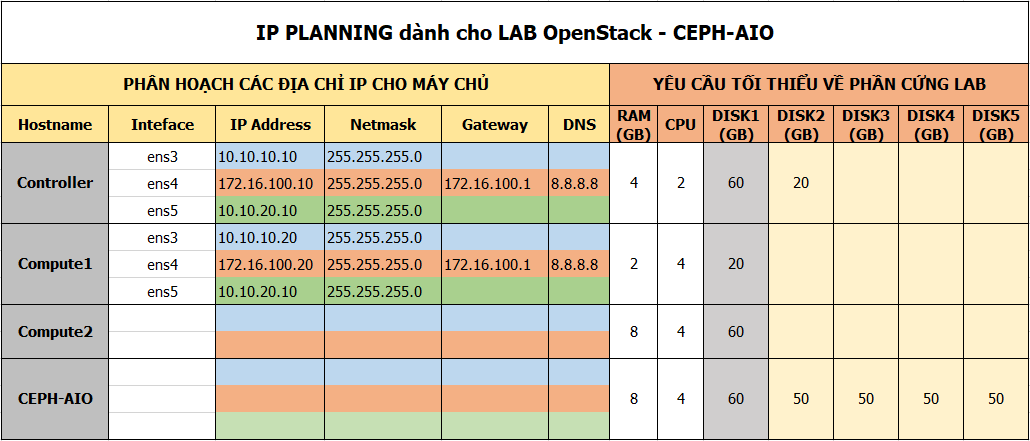
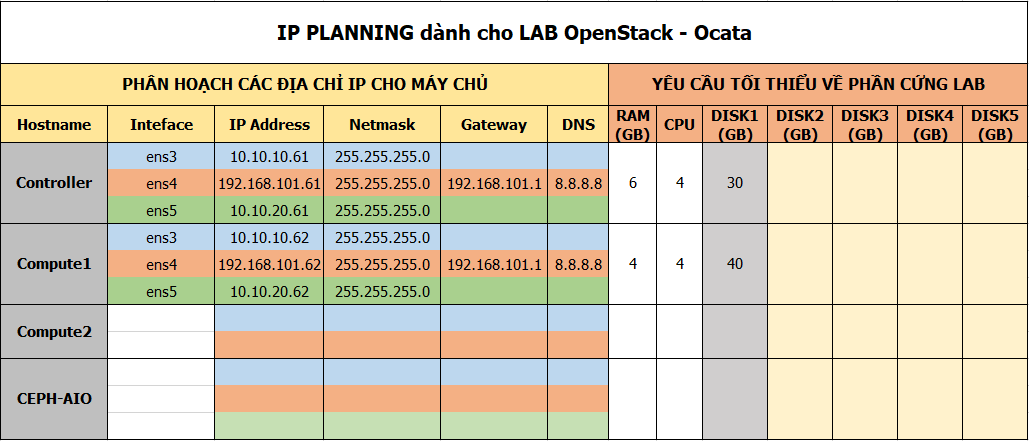
update script setup OPS Ocata
OPS Ocata với Linuxbridge

diff --git a/TamNT/Openstack/Ocata_Scripts/readme.md b/TamNT/Openstack/Ocata_Scripts/readme.md
@@ -1,7 +1,3 @@
-
-TTP<sub>hihihehe </sub><sup> helo </sup>
-
-
 # Tổng hợp scripts cài đặt Openstack Ocata
 
 scripts cài đặt Ocata theo docs [trang chủ.](https://docs.openstack.org/ocata/install-guide-ubuntu)
@@ -18,7 +14,7 @@ scripts cài đặt Ocata theo docs [trang chủ.](https://docs.openstack.org/oc
 
 - Download các file scripts.
 
-- Sử dụng người dùng sudoer hoặc người dùng root để thực hiện các lệnh sau.
+- Sử dụng người dùng sudoer hoặc người dùng `root` để thực hiện các lệnh sau.
 
 - Thực hiện gán quyền thực thi cho các file scripts
 
@@ -52,11 +48,11 @@ scripts cài đặt Ocata theo docs [trang chủ.](https://docs.openstack.org/oc
 
 	- Cài đặt và cấu hình Neutron (option 2):
 
-		`source ctl-5-neutron.sh`
+		`source ctl-6-neutron.sh`
 
 	- Cài đặt và cấu hình Horizon: 
 
-		`source ctl-6-horizon.sh` (*script đang cập nhật, chưa hoàn thiện*)
+		`source ctl-7-horizon.sh`
 
 - **Node compute1**:
 
@@ -72,22 +68,14 @@ scripts cài đặt Ocata theo docs [trang chủ.](https://docs.openstack.org/oc
 
 		`source com1-2-nova.sh`
 
+		Sau khi cài đặt service nova-compute trên node 	`compute1`, cần update lại trên node `controller` để nó có thể liên kết với compute1 trong service nova. Chạy script sau (***lưu ý thực hiện trên node `controller`***): 
+
+		`source ctl-5-discoveryHost.sh`
+
 	- Cài đặt và cấu hình Neutron node compute:
 
 		`source com1-3-neutron.sh`
 
-- Launch instance kiểm tra hoạt động của Openstack: 
+- Vậy là hoàn thành setup Openstack Ocata. 
 
-	`source launch_instance.sh`
-
-	Kết quả trả về như sau là thành công: 
-
-	```
-	openstack server list
-	+--------------------------------------+----------------------+--------+---------------------------+------------+
-	| ID                                   | Name                 | Status | Networks                  | Image Name |
-	+--------------------------------------+----------------------+--------+---------------------------+------------+
-	| 22cd963d-2355-4198-aac8-797c89330905 | selfservice-instance | ACTIVE | selfservice=192.168.100.9 | cirros     |
-	+--------------------------------------+----------------------+--------+---------------------------+------------+
-	```
 
